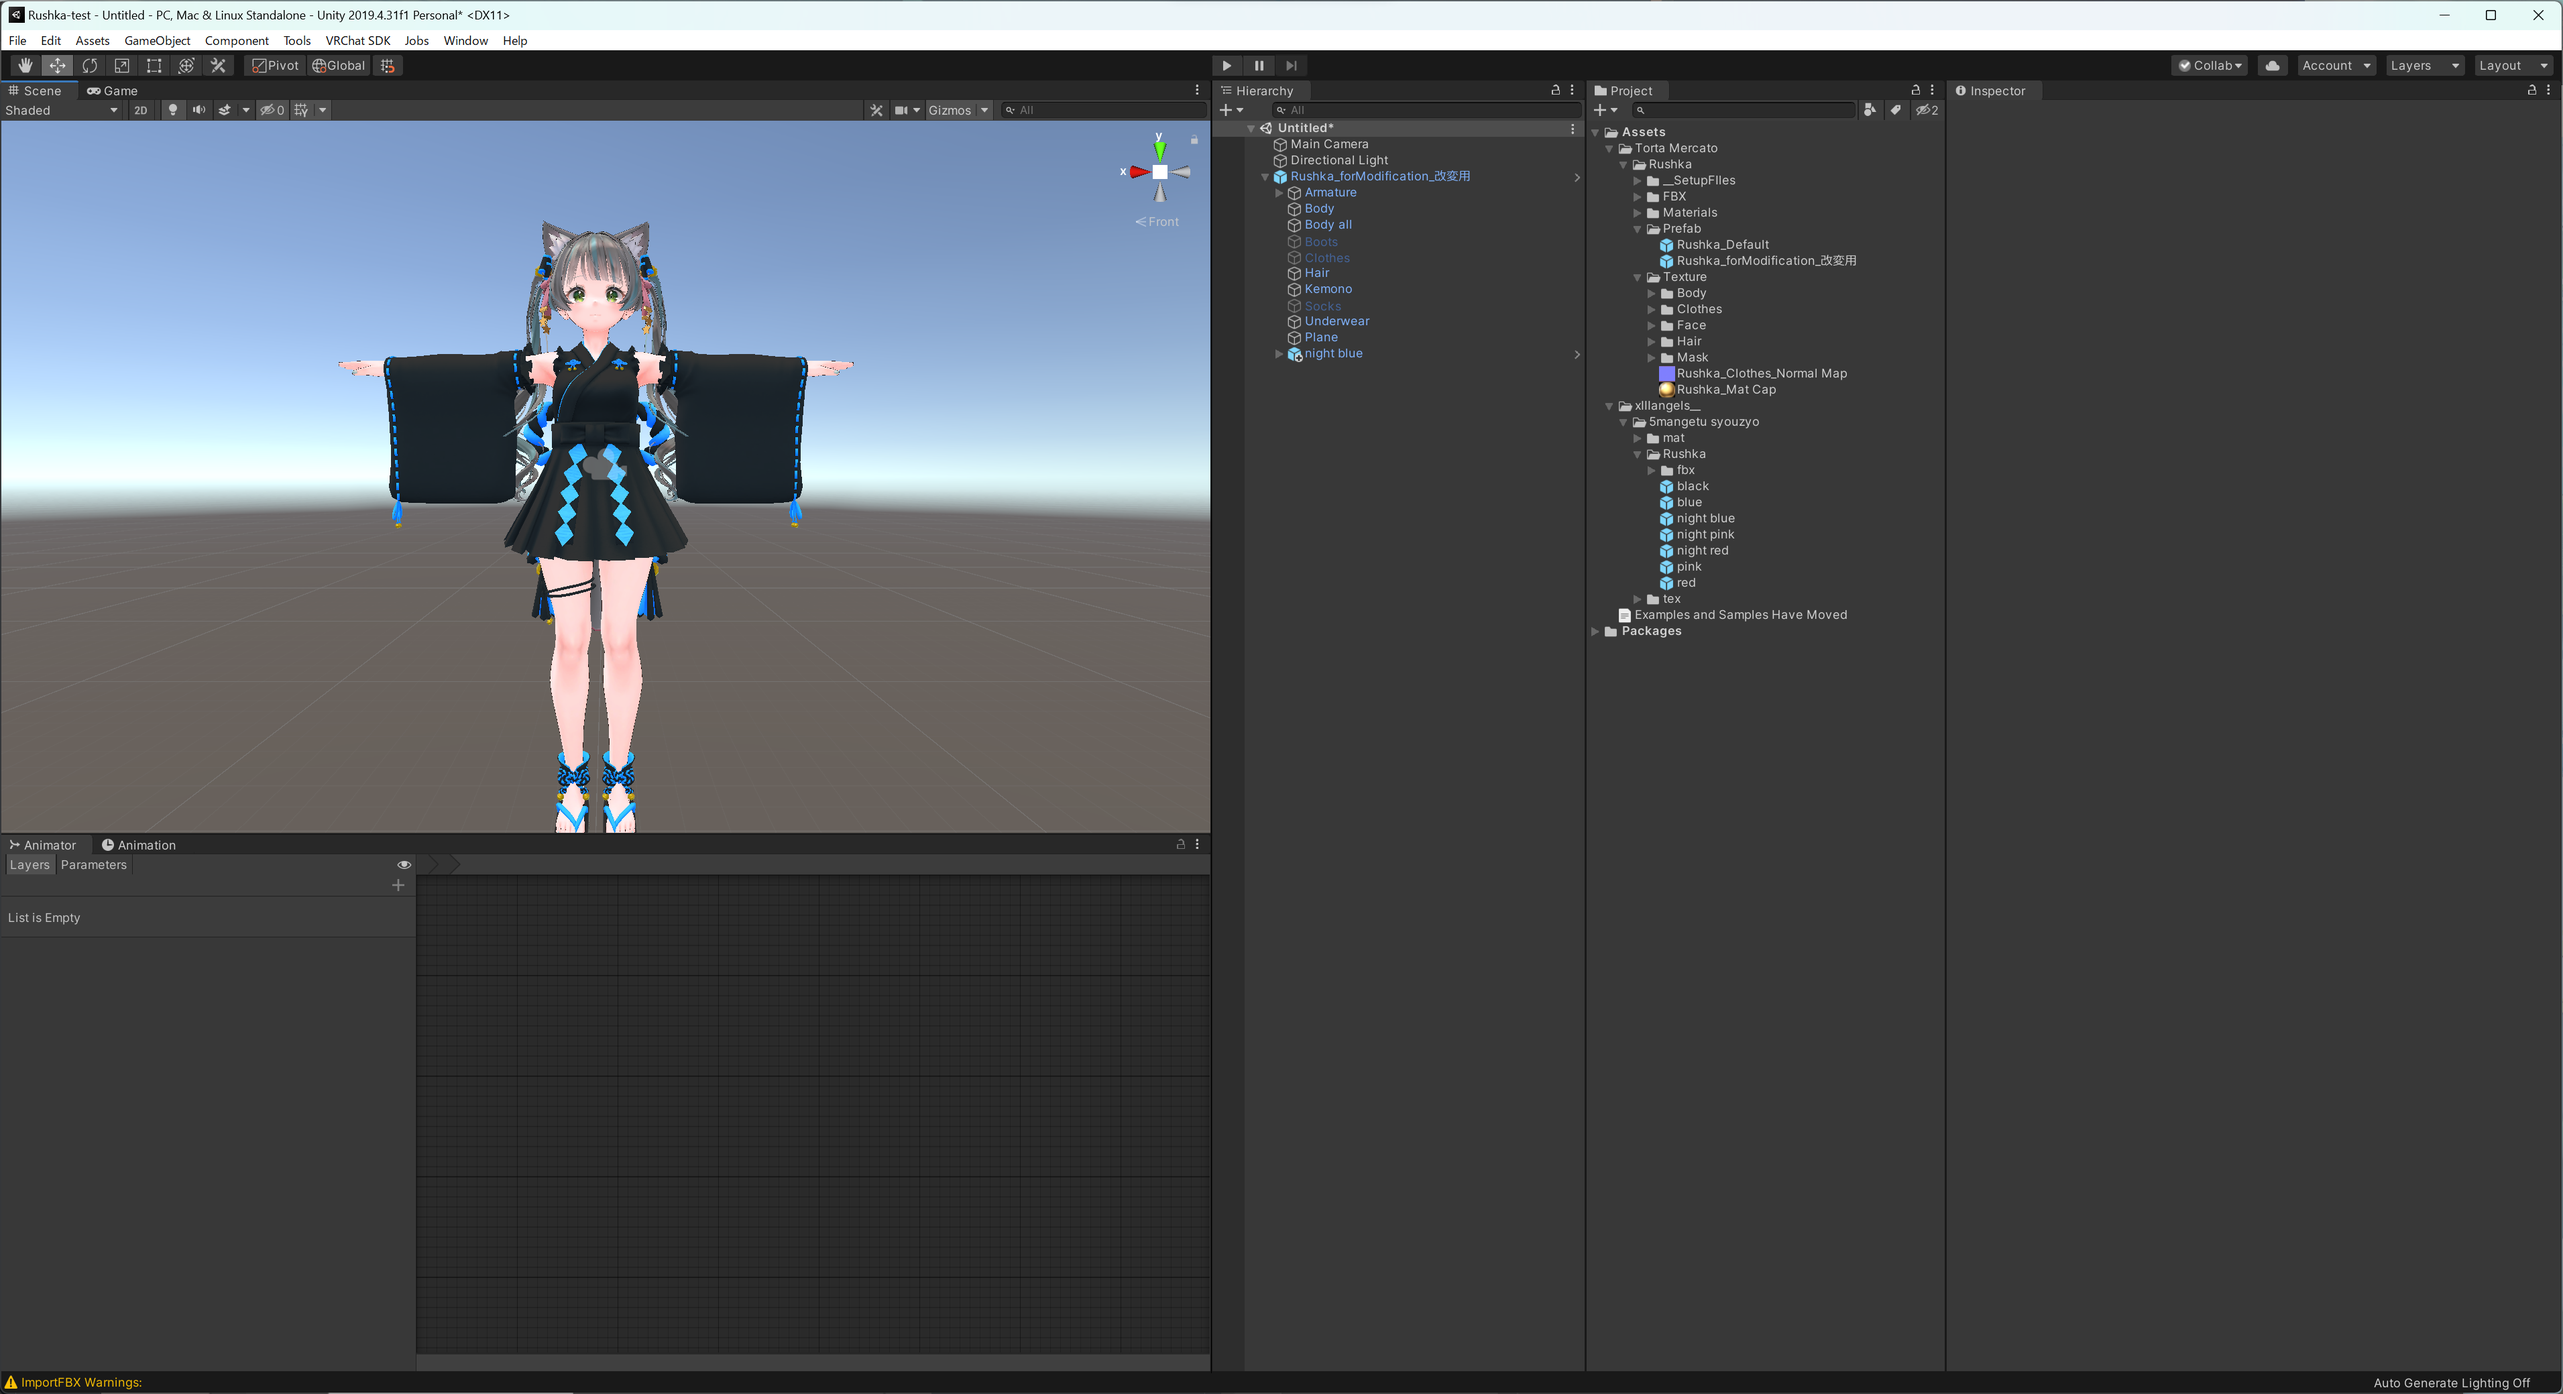
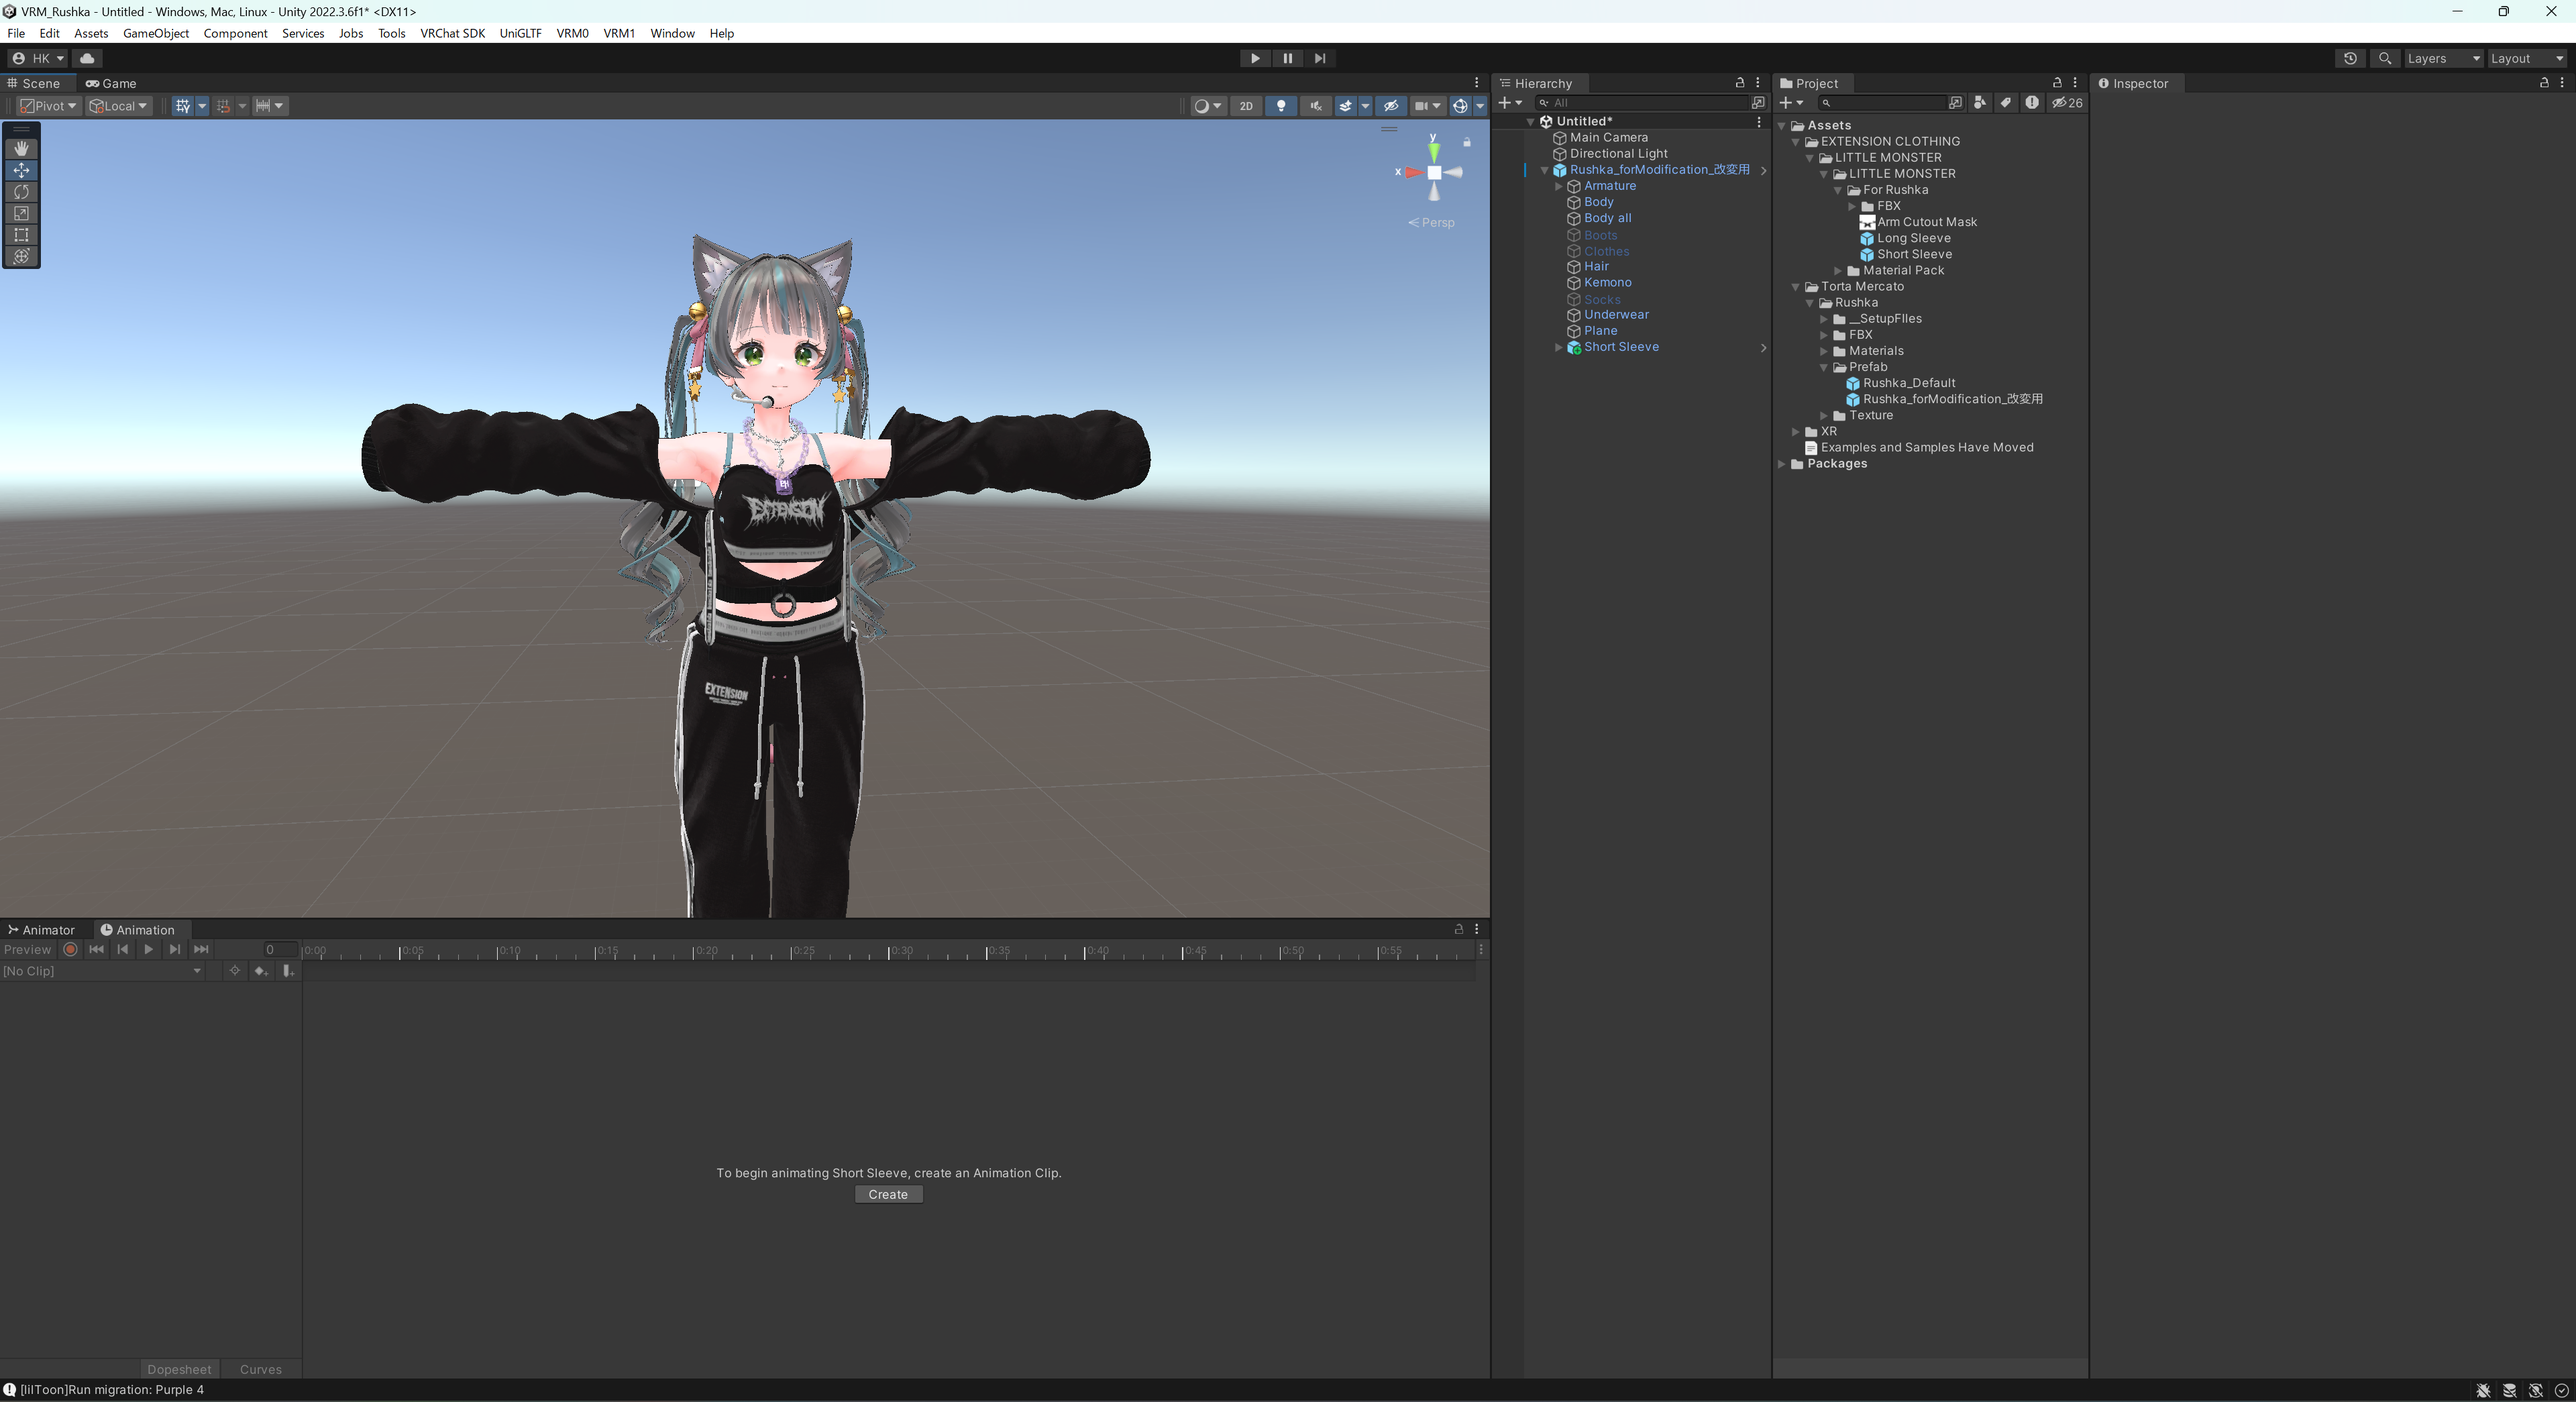
Unity 2022.3.6.f1に対応した記述に変更

Changed region(s): [[0.0, 0.0, 1.0, 1.0], [0.2802, 0.8312, 0.4048, 0.862], [0.0, 0.9851, 0.0934, 1.0]]

diff --git a/readme.md b/readme.md
@@ -3,96 +3,81 @@
 ## 手順の概略
 - [Modular Avatar](https://modular-avatar.nadena.dev/ja/docs/intro)を使いアバターの着せ替えをしてVRChatにアップロード
 - シェイプキーをすべて0にしておく（そうするとResoniteにインポートした際、シェイプキーの欠落・異常がなくなるかも？）
-- UniVRM-0.99を使いVRM形式でエクスポートする
-- VRM最新版を使い再度VRM形式でエクスポートする
-- 再度エクスポートしたVRMからGLBに変換
+- UniVRM 最新版を使いVRM形式でエクスポートする
 - GLBに変換後、Resoniteにインポート
 
 ## これを書いたときの環境など
 - 使用アバター  [ルーシュカ](https://booth.pm/ja/items/4296675)（[とるた めるか～と -Torta Mercato-](https://tortamercato.booth.pm/)）
-- 使用衣装  [満月少女](https://booth.pm/ja/items/4998054)（[ʚ♡ɞ__xIIIange__ʚ♡ɞ](https://xiiiange.booth.pm/)）
-- Win11 Pro 23H2 build 22631.2861 / Unity 2019.4.31f1 / VRCSDK **3.4.2**
+- 使用衣装  [EXTENSION CLOTHING『LITTLE MONSTER』](https://extension.booth.pm/items/4604087)（[EXTENSION CLOTHING](https://extension.booth.pm/)）
+- Win11 Pro 23H2 build 22631.3085 / Unity 2022.3.6.f1 / VRCSDK **3.5.0** / UniVRM-v0.118.0
 
 ## 実際の手順
 
 ### ➀ [VCC](https://vrchat.com/home/download) でアバターのプロジェクト作成
 - Modular Avatar,liltoon(アバター・衣装が他のシェーダーを指定している場合はそれに従う)を追加して作成
-- UniVRM-0.99は別途ダウンロードして追加
+- UniVRM 最新版のパッケージを追加
+  - githubのvrm-c/UniVRMを参照(https://github.com/vrm-c/UniVRM/releases)
+
+![alt_text](images/2022/image0.png "image_tooltip")
 
 ### ② アバター、衣装のunitypackageインポート
-![alt_text](images/image1.png "image_tooltip")
+![alt_text](images/2022/image1.png "image_tooltip")
 
 ### ③アバター、衣装のprefabをhierarchyに入れる
-![alt_text](images/image2.png "image_tooltip")
+![alt_text](images/2022/image2.png "image_tooltip")
 
 ### ④ hierarchyの衣装のルートを選択して右クリックして、Modular Avatar > Setup Outfitを選択
-![alt_text](images/image3.png "image_tooltip")
+![alt_text](images/2022/image3.png "image_tooltip")
 
 ### ⑤ メニューバーのVRChat SDK > Show Control Panelを選択して、Build&Publish する(VRChatにアップロードしない人はこの手順は省略してよい)
 
 ### ⑥ hierarchyのアバタールートを選択して、メニューバーのTools > Modular Avatar > Manual bake avatar を選択
 - アバター名(clone)がhierarchyに追加される
 - シェイプキーの変更はResonite内でもできるので、ここではシェイプキーをすべて0にしておく（そうするとResoniteにインポートした際、シェイプキーの欠落・異常がなくなるかも？）
-   
+- アバターのアーマチュアを展開してリグとして認識させないボーンの名前の先頭に&lt;NOIK&gt;と追加する。ルーシュカの場合はUpperChest。
+- 衣装にも&lt;NOIK&gt;と追加する必要のある箇所がある場合ある
+
+![alt_text](images/2022/image4.png "image_tooltip")
+
 ### ⑦ hierarchyのアバター名(clone)を選択して、メニューバーのVRM0 > Export to VRM0.xを選択
-表示されたダイアログにライセンス情報を適切に入力してExportを押す
-![alt_text](images/image4.png "image_tooltip")
+- 表示されたダイアログにライセンス情報を適切に入力してExportを押す
+- ExportSettingタブでDivide Vertex Bufferにチェックを入れる
+- ExportをクリックしてExport実行（今回は VRMTEST.vrm というファイル名でエクスポート）
 
 ### ⑧ VRMファイルが出力される。
 - この時点で、[VRM Live Viwer](https://booth.pm/ja/items/1783082)などを使い表示に異常がないか確認しおく
 - clusterなどのVRMに対応したプラットフォームにアップロードして確認してもよいが、各プラットフォームの制約でアップロードできない場合がある
 
-### ⑨VRM最新版に更新する
-
-- Unity 2021.3 LTS以降で新規プロジェクト(3D)を作る
-
-- VRMShaders、VRMShaders、UniVRM、VRMのパッケージを追加
-  - VRMShaders com.vrmc.vrmshader: https://openupm.com/packages/com.vrmc.vrmshaders/#modal-manualinstallation
-  - GLTF com.vrmc.gltf: https://openupm.com/packages/com.vrmc.gltf/#modal-manualinstallation
-  - UniVRM com.vrmc.univrm(VRM0): https://openupm.com/packages/com.vrmc.univrm/#modal-manualinstallation
-  - VRM com.vrmc.vrm(VRM1.0): https://openupm.com/packages/com.vrmc.vrm/#modal-manualinstallation
-  
-- Projectに手順⑦⑧でエクスポートしたVRMファイルをドラッグ＆ドロップする。自動で変換されPrefabが生成される。
-
-- 生成されたPrefabをヒエラルキーにドラッグ＆ドロップする。
-
-- アバターのアーマチュアを展開してリグとして認識させないボーンの名前の先頭に&lt;NOIK&gt;と追加する
-  - ルーシュカのUpperChest
-  - 満月少女のSpine ribbon*
-  - leg accessory*も&lt;NOIK&gt;にすべきだと思うが後述の理由によりとりあえず無視
-![alt_text](images/append_noik.png "image_tooltip")
-
-### ⑩ ヒエラルキーでアバタールートを選択して VRM0 → Export to VRM0.xをクリック
-- ライセンス等を適切に記述
-- ExportSettingタブでDivide Vertex Bufferにチェックを入れる
-- ExportをクリックしてExport実行（今回は New_mangetsuBlue.vrm というファイル名でエクスポート）
-
-### ⑪ 変換スクリプトを使う
+### ⑨ 変換スクリプトを使う
 - 「[VRMをNeos対応っぽく自動で変換できるやつ](https://booth.pm/ja/items/4104649)」を使い変換する
   - 最新版の変換スクリプトを使いたい場合は、githubにある [vrmtoglb_autoconvert](https://github.com/kazu0617/vrmtoglb_autoconvert) をよく読んでダウンロード
   - [VRMをNeos対応っぽく自動で変換できるやつ](https://booth.pm/ja/items/4104649) は実行中に blender を使う。（ユーザーは blender を操作する必要はない）
   - blender がインストールされていない場合は自動的に最新のblenderをダウンロードしてインストールされる。
 
 - 変換方法
-手順⑩でエクスポートしたVRMファイル（New_mangetsuBlue.vrm）を_convert.batにドラッグ＆ドロップすると自動的に変換される
-![alt_text](images/image5.png "image_tooltip")
+手順⑧でエクスポートしたVRMファイル（VRMTEST.vrm）を_convert.batにドラッグ＆ドロップすると自動的に変換される
+
+![alt_text](images/2022/image5.png "image_tooltip")
 
 - 変換が進んでいき・・・・
+
 ![alt_text](images/image6.png "image_tooltip")
 
 - こうなれば変換は成功
-![alt_text](images/image7.png "image_tooltip")
 
-### ⑫ VRMファイル名＋converted.glbというファイルが出力されているので、これをResoniteにインポート（Resoniteのウィンドウにドラッグ＆ドロップ）する。
+![alt_text](images/2022/image7.png "image_tooltip")
+
+### ⑩ VRMファイル名＋converted.glbというファイルが出力されているので、これをResoniteにインポート（Resoniteのウィンドウにドラッグ＆ドロップ）する。
 モデルインポーターのダイアログが表示されるので、3Dモデル → 一般的なほとんどのモデル → ヒューマノイドの身長に自動設定 → 高度な設定
 - マテリアル　XiexeToon
 - 「アセットをオブジェクト内に入れる」を☑
 - インポート実行を押す
 
-### ⑬ モデルが表示されれば完了
+### ⑪ モデルが表示されれば完了
 
 少し待てばテクスチャーも反映されるはずだが数分待っても反映しない場合は、VRMファイル名＋converted.glbが出力されているフォルダにテクスチャーも出力されているので、ResoniteにインポートしてモデルのXiexetoonマテリアルに設定する（設定方法は省略）
-![alt_text](images/image8.png "image_tooltip")
+
+![alt_text](images/2022/image8.jpg "image_tooltip")
 
 ### ⑫ アバタークリエイターでアバター化する（省略）
  - 揺れ物の設定
@@ -101,13 +86,11 @@
  - etc, etc...
 
 ### ⑬ アバター作者・衣装作者が凄くがんばったマテリアルはResoniteに反映していないので、自分でなんとかするか有識者に聞く
-今回使った衣装（満月少女）は、服の色を色調補正で表現しているので、あらかじめマテリアルのメインカラーで焼き込み（liltoonの機能）を行っておくと良い（下図参照）
+liltoonの色調補正の焼き込み、アルファの焼き込みだけでなんとかなることもある
 
-![alt_text](images/tex_yakikomi.png "image_tooltip")
 
-## leg accessory*に&lt;NOIK&gt;を追記しなかったわけ
-   
-   右足のえっちひもが何をどうやってもメッシュが変形する対処としてResonite内では非表示としているため（なにかに引っ張られるような変形のしかたなので、&lt;NOIK&gt;を付けるべき箇所が他にもあるかも知れない？）
+### ⑭ その他
+UniVRMの最新版が使えるのであれば、VRM形式を経由せずともUniGLTFで直接gltfで出力してResoniteにインポートすることも可能だと思う（試してない）
 
 ## 参考にした情報源
 - [VRMアバターについて](https://sharedx.notion.site/VRM-d93c6e3ae2f647e0956054efff1d20b9)
